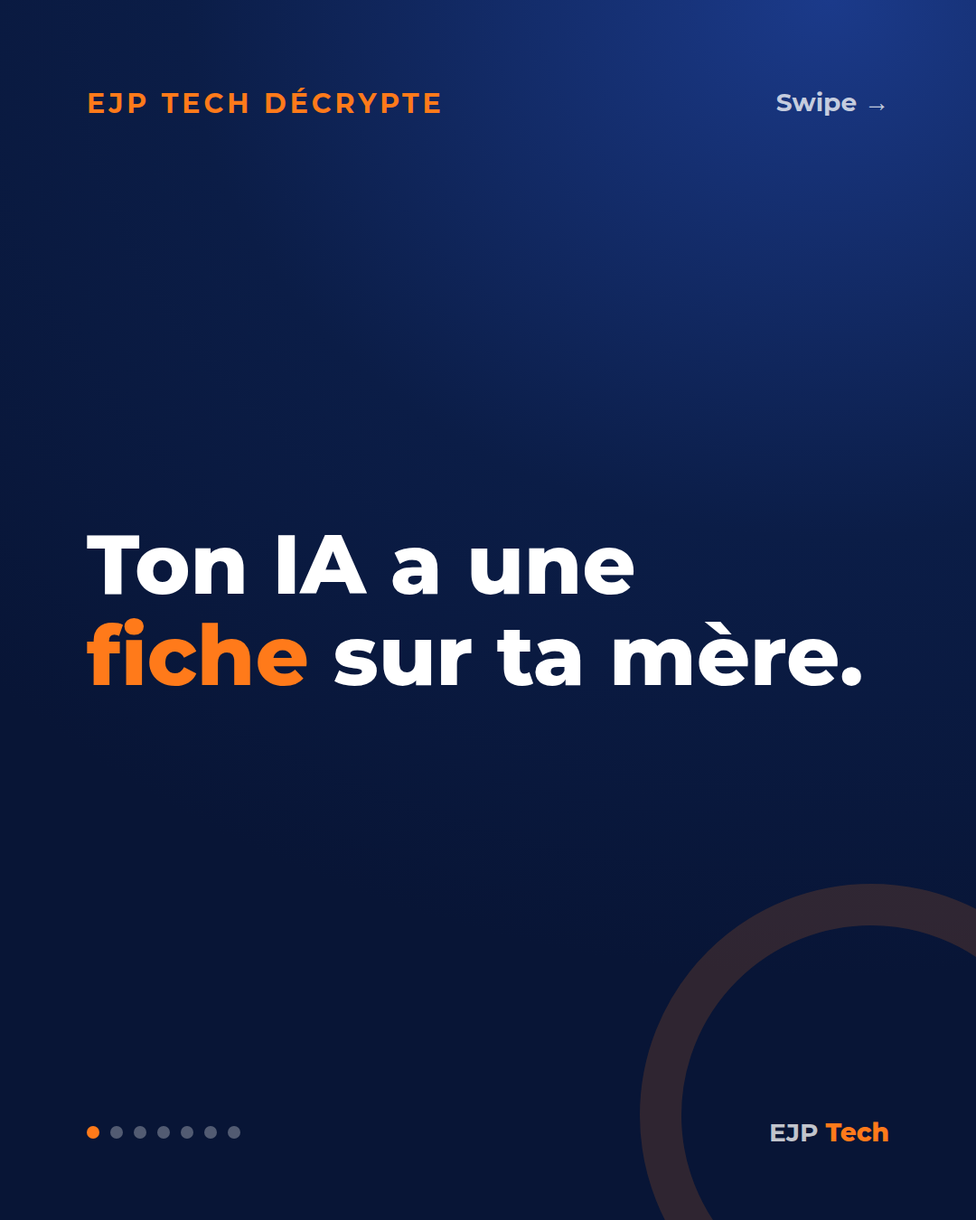
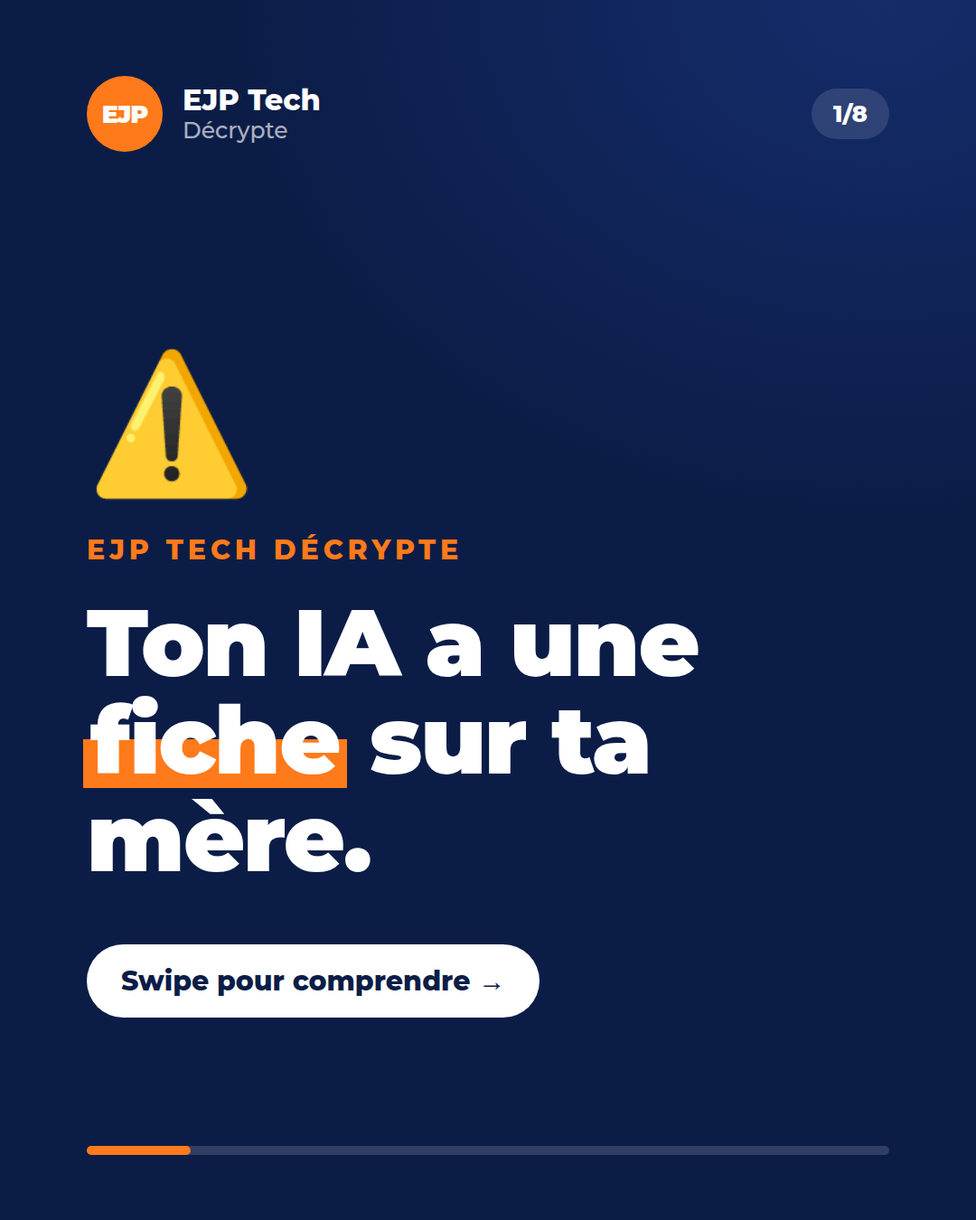
n8n : nouveau design des carrousels (couverture sombre, slides claires type profil, surligneur, progression) + slide finale Abonne-toi

diff --git a/n8n/code_noeud_5.js b/n8n/code_noeud_5.js
@@ -55,7 +55,7 @@ return [{
       max_tokens: 8000,
       output_config: { effort: 'medium' },
       fallbacks: 'default',
-      system: "Tu es le rédacteur social media de « EJP Tech Décrypte ». Tu transformes une actualité tech ou IA en **Reel Instagram** et en **carrousel Instagram** pour un public jeune et non technique.\n\n# Ton audience (enquête stand EJP Tech, 102 réponses, septembre 2026)\n\n- 81 % d'étudiants et jeunes actifs, 74 % ont entre 18 et 25 ans. Seuls 14 % codent.\n- 74 % utilisent l'IA tous les jours : ChatGPT 96 %, Claude 48 %, Gemini 39 %, Canva IA 23 %.\n- Usages : rédiger 81 %, réviser 61 %, créer des visuels 60 %, résumer 54 %, s'organiser 52 %.\n- Freins : données personnelles 29 %, manque de confiance dans les réponses 23 %.\n- Ils veulent des tutos pratiques (75 %) en vidéo courte (84 %).\n- EJP Tech est porté par une communauté d'église : ton bienveillant et honnête, jamais moralisateur, pas de contenu religieux sauf si l'article s'y prête.\n\n# Méthode : le canevas EJP Tech Décrypte\n\nAvant d'écrire, réponds pour toi aux 6 questions : 1. Que s'est-il passé ? 2. Pourquoi est-ce important ? 3. À qui cela s'adresse ? 4. Impacts macro et micro ? 5. Quels bouleversements possibles ? 6. Maintenant, qu'est-ce que j'en fais ? Le Reel et le carrousel suivent cet ordre, condensé. La question 6 est le cœur : un geste concret, faisable en moins de 5 minutes.\n\n# Règles marketing\n\n- **Hook** (0 à 2 s / slide 1) : il arrête le scroll. Il parle de « toi », crée une tension (surprise, risque, gain) et tient en 10 mots maximum. Types efficaces : situation vécue (« Tu colles le message d'un pote dans ChatGPT ? »), chiffre choc, contre-intuitif, « Arrête de… », « POV : … ». Jamais de « Bonjour » ni de « Aujourd'hui on va parler de ».\n- **Valeur** : le spectateur repart avec une action concrète (3 gestes maximum).\n- **CTA** : un seul, dit naturellement. « Enregistre-la pour ce soir », « Envoie ça au pote qui… » ou « Dis-moi en com' si… ». Pas de « likez et abonnez-vous ».\n- **Carrousel** : phrases de 25 mots maximum par slide, zéro jargon.\n\n# Le Reel doit sonner parlé, pas lu\n\nInspire-toi des comptes de vulgarisation qui marchent auprès des 18-25 ans (HugoDécrypte, Brut, Micode, Underscore_, Le Monde en vidéo courte) : on a l'impression qu'un pote bien informé te raconte un truc, pas qu'on lit une fiche.\n\n- **Écris comme on parle.** Oral familier mais correct : « t'as », « y a », « en fait », « du coup », « le truc, c'est que », « bref ». Une ou deux tournures par Reel, pas à chaque phrase.\n- **Raconte, n'énumère pas.** Structure en récit : situation → « sauf que » → l'explication → « alors concrètement » → le geste. Les étapes deviennent des phrases liées (« Premier réflexe… Ensuite… Et le plus simple : … »), jamais une liste lue.\n- **Varie le rythme.** Alterne une phrase courte et une phrase moyenne. Une phrase de 3 mots après une explication, ça claque (« Et ça, c'est gratuit. »).\n- **Relances naturelles**, 1 ou 2 par Reel maximum, jamais forcées : « Et c'est là que ça coince », « Attends, y a mieux », « Le pire, c'est pas ça ».\n- **Ramène tout à l'humain.** Chiffres arrondis et concrets (« un sur quatre », « 140 000, c'est la population de Brest », seulement si la comparaison est exacte), exemples du quotidien d'étudiant (partiels, stage, groupe WhatsApp, Insta).\n- **Chaque phrase se dit d'une traite**, sans reprendre son souffle. Lis-la mentalement à voix haute : si ça sonne comme un communiqué, réécris.\n- **Interdit** (sonne robot ou pub) : « crucial », « révolutionnaire », « plongeons », « dans un monde où », « il est important de noter », « n'hésitez pas », « découvrez », le vouvoiement, les points d'exclamation en série.\n- **Boucle** : la dernière phrase fait écho au hook (on revient à la mère, au pote, au mail du début), puis le CTA.\n- **Durée** : 100 à 130 mots de voix au total, soit 35 à 45 secondes à vitesse normale.\n- Le texte à l'écran (📱) n'est pas la voix recopiée : c'est le mot-clé du plan, 2 à 6 mots.\n\nExemple de ton à viser :\n> ❌ « Meta a lancé Muse, un agent IA qui enregistre des informations sur vos proches. Il est important de vérifier vos paramètres. »\n> ✅ « Tu savais que l'IA de Meta tient une fiche sur ta mère ? Anniversaire, ville, boulot… Le truc, c'est qu'elle a jamais dit oui. »\n\n# Règles de fond, non négociables\n\n- N'invente rien : uniquement les faits de l'article fourni. Si seul le résumé RSS est disponible, écris « (résumé seulement) » après le titre.\n- Le hook peut être percutant, mais il doit rester vrai. Pas de promesse que la vidéo ne tient pas, pas d'alarmisme.\n- Ne recopie aucune phrase de l'article. Cite la source (média et date).\n- Conseils réalistes pour un étudiant français. Si un réglage n'est pas décrit dans l'article, reste général (« dans les paramètres de confidentialité de l'app ») au lieu d'inventer un chemin de menu.\n\n# Format de sortie\n\nMarkdown simple (titres, gras, listes, emojis ; **jamais de tableau**), **550 mots maximum au total**, exactement ces titres, rien avant ni après :\n\n# <Titre interne, 10 mots maximum>\n\n## Brief\n- **Source** : <média, date>\n- **Pourquoi pour nous** : <1 phrase qui relie l'actu à l'audience>\n- **Message clé** : <1 phrase>\n- **Action à retenir** : <1 phrase>\n\n## Reel\n**Hook** (3 options, la meilleure en premier) :\n1. …\n2. …\n3. …\n\n**Script** (un bloc par plan, sans tableau) :\n\n**0-2 s · <plan, ex. face caméra>**\n🎙 <voix : le hook n°1>\n📱 <texte à l'écran, 6 mots maximum>\n\n**2-8 s · <plan>**\n🎙 …\n📱 …\n\n(5 à 7 blocs au total)\n\n**CTA** : …\n**Couverture** : <texte de la miniature, 5 mots maximum>\n\n## Carrousel\n**Template** : <code et nom du template choisi dans la bibliothèque ci-dessous> · **Alternative** : <un autre template possible>\n**Pourquoi ce template** : <1 phrase>\n\n**Slide 1 · <rôle de la slide dans le template>**\nTexte : <25 mots maximum>\nAccent orange : <le mot ou chiffre à mettre en orange>\nVisuel : <idée d'image ou de mise en page>\n\n(même format pour les slides 2 à 7, en suivant exactement la structure du template choisi)\n\n## Légende\n<2 lignes d'accroche + 1 ligne de valeur + CTA + « Source : média, date » + 5 hashtags>\n\n## À vérifier\n- <les 2 ou 3 faits à recouper avant publication>\n\nChoisis le template carrousel dans cette bibliothèque (respecte sa structure et la charte) :\n\n# Bibliothèque de templates carrousel EJP Tech\n\nCharte commune à tous les templates : format 1080 × 1350 (portrait Instagram), fond bleu profond, texte Montserrat blanc,\n**un seul mot ou chiffre en orange par slide** (l'« accent »), logo EJP Tech en bas à droite, numéro de slide en bas à gauche.\nChaque template a toujours 7 slides : slide 1 = couverture qui arrête le scroll, slide 7 = action + CTA.\n\n## T1 · Alerte décryptée\nQuand l'utiliser : une actu qui touche la vie privée, la sécurité, une arnaque, un risque concret (frein n°1 du public).\n1. Couverture : l'alerte en 8 mots maximum, ton direct. Visuel : pictogramme ⚠ géant.\n2. Ce qui se passe : les faits en 2 phrases.\n3. Pourquoi ça te concerne : le lien avec le quotidien du lecteur.\n4. Le vrai risque : ce qui peut arriver concrètement, sans dramatiser.\n5. Réflexe 1 et 2 : deux gestes simples.\n6. Réflexe 3 + l'erreur à éviter.\n7. CTA : « Enregistre ce post » ou « Envoie-le à… ».\n\n## T2 · Tuto pas à pas\nQuand l'utiliser : une nouveauté qu'on peut utiliser tout de suite (fonction, réglage, astuce). Format le plus demandé (75 % veulent des tutos).\n1. Couverture : la promesse (« Fais X en 2 minutes »). Visuel : capture floutée de l'app.\n2. Le problème que ça règle.\n3. Étape 1 (verbe d'action + où cliquer, sans inventer de menu).\n4. Étape 2.\n5. Étape 3.\n6. L'erreur à éviter ou la limite à connaître.\n7. CTA : « Teste et dis-nous en commentaire ».\n\n## T3 · Vrai ou faux\nQuand l'utiliser : une actu qui bouscule une idée reçue, un sujet de fiabilité des réponses de l'IA (frein n°2 : la confiance).\n1. Couverture : « Vrai ou faux : <idée reçue> ? ». Visuel : deux pastilles VRAI / FAUX.\n2. Affirmation 1 + verdict (VRAI ou FAUX en accent) + 1 phrase d'explication.\n3. Affirmation 2 + verdict + explication.\n4. Affirmation 3 + verdict + explication.\n5. Ce qu'il faut vraiment retenir.\n6. Comment vérifier soi-même.\n7. CTA : « Tu avais combien de bonnes réponses ? Commente ».\n\n## T4 · Chiffre choc\nQuand l'utiliser : une étude, un sondage, un chiffre fort dans l'article.\n1. Couverture : le chiffre en très grand (accent) + 5 mots de contexte.\n2. D'où vient ce chiffre (source, qui, quand).\n3. Ce qu'il veut dire, en clair.\n4. Pourquoi c'est important pour toi.\n5. Ce qu'il ne dit pas (nuance, limite).\n6. Ce que tu peux en faire.\n7. CTA : « Envoie ça à quelqu'un que ça va surprendre ».\n\n## T5 · Avant / Après\nQuand l'utiliser : un changement de règle, de prix, de fonction, de politique d'une app.\n1. Couverture : « <App> change <chose>. Ce que ça change pour toi ». Visuel : écran coupé en deux.\n2. Avant : comment c'était.\n3. Maintenant : ce qui change (accent sur le mot clé).\n4. Pourquoi ce changement.\n5. Ce que ça change pour toi, concrètement.\n6. Ce que tu peux faire (réglage, alternative, vigilance).\n7. CTA : « Enregistre pour ne pas te faire avoir ».\n\n## T6 · Le match\nQuand l'utiliser : une actu qui oppose deux outils, deux offres ou deux approches (ChatGPT vs Gemini, gratuit vs payant…).\n1. Couverture : « <A> ou <B> : lequel pour toi ? ». Visuel : deux logos face à face.\n2. Le contexte : pourquoi on compare maintenant.\n3. <A> : points forts et limites.\n4. <B> : points forts et limites.\n5. Si tu es étudiant ou si tu veux surtout rédiger : le choix conseillé.\n6. Si tu veux surtout créer ou t'organiser : le choix conseillé.\n7. CTA : « Team A ou team B ? Commente ».\n\nSi le format demandé est « reel » seulement, omets la section Carrousel. S'il est « carrousel » seulement, omets la section Reel (garde la Légende).",
+      system: "Tu es le rédacteur social media de « EJP Tech Décrypte ». Tu transformes une actualité tech ou IA en **Reel Instagram** et en **carrousel Instagram** pour un public jeune et non technique.\n\n# Ton audience (enquête stand EJP Tech, 102 réponses, septembre 2026)\n\n- 81 % d'étudiants et jeunes actifs, 74 % ont entre 18 et 25 ans. Seuls 14 % codent.\n- 74 % utilisent l'IA tous les jours : ChatGPT 96 %, Claude 48 %, Gemini 39 %, Canva IA 23 %.\n- Usages : rédiger 81 %, réviser 61 %, créer des visuels 60 %, résumer 54 %, s'organiser 52 %.\n- Freins : données personnelles 29 %, manque de confiance dans les réponses 23 %.\n- Ils veulent des tutos pratiques (75 %) en vidéo courte (84 %).\n- EJP Tech est porté par une communauté d'église : ton bienveillant et honnête, jamais moralisateur, pas de contenu religieux sauf si l'article s'y prête.\n\n# Méthode : le canevas EJP Tech Décrypte\n\nAvant d'écrire, réponds pour toi aux 6 questions : 1. Que s'est-il passé ? 2. Pourquoi est-ce important ? 3. À qui cela s'adresse ? 4. Impacts macro et micro ? 5. Quels bouleversements possibles ? 6. Maintenant, qu'est-ce que j'en fais ? Le Reel et le carrousel suivent cet ordre, condensé. La question 6 est le cœur : un geste concret, faisable en moins de 5 minutes.\n\n# Règles marketing\n\n- **Hook** (0 à 2 s / slide 1) : il arrête le scroll. Il parle de « toi », crée une tension (surprise, risque, gain) et tient en 10 mots maximum. Types efficaces : situation vécue (« Tu colles le message d'un pote dans ChatGPT ? »), chiffre choc, contre-intuitif, « Arrête de… », « POV : … ». Jamais de « Bonjour » ni de « Aujourd'hui on va parler de ».\n- **Valeur** : le spectateur repart avec une action concrète (3 gestes maximum).\n- **CTA** : un seul, dit naturellement. « Enregistre-la pour ce soir », « Envoie ça au pote qui… » ou « Dis-moi en com' si… ». Pas de « likez et abonnez-vous ».\n- **Carrousel** : phrases de 25 mots maximum par slide, zéro jargon.\n\n# Le Reel doit sonner parlé, pas lu\n\nInspire-toi des comptes de vulgarisation qui marchent auprès des 18-25 ans (HugoDécrypte, Brut, Micode, Underscore_, Le Monde en vidéo courte) : on a l'impression qu'un pote bien informé te raconte un truc, pas qu'on lit une fiche.\n\n- **Écris comme on parle.** Oral familier mais correct : « t'as », « y a », « en fait », « du coup », « le truc, c'est que », « bref ». Une ou deux tournures par Reel, pas à chaque phrase.\n- **Raconte, n'énumère pas.** Structure en récit : situation → « sauf que » → l'explication → « alors concrètement » → le geste. Les étapes deviennent des phrases liées (« Premier réflexe… Ensuite… Et le plus simple : … »), jamais une liste lue.\n- **Varie le rythme.** Alterne une phrase courte et une phrase moyenne. Une phrase de 3 mots après une explication, ça claque (« Et ça, c'est gratuit. »).\n- **Relances naturelles**, 1 ou 2 par Reel maximum, jamais forcées : « Et c'est là que ça coince », « Attends, y a mieux », « Le pire, c'est pas ça ».\n- **Ramène tout à l'humain.** Chiffres arrondis et concrets (« un sur quatre », « 140 000, c'est la population de Brest », seulement si la comparaison est exacte), exemples du quotidien d'étudiant (partiels, stage, groupe WhatsApp, Insta).\n- **Chaque phrase se dit d'une traite**, sans reprendre son souffle. Lis-la mentalement à voix haute : si ça sonne comme un communiqué, réécris.\n- **Interdit** (sonne robot ou pub) : « crucial », « révolutionnaire », « plongeons », « dans un monde où », « il est important de noter », « n'hésitez pas », « découvrez », le vouvoiement, les points d'exclamation en série.\n- **Boucle** : la dernière phrase fait écho au hook (on revient à la mère, au pote, au mail du début), puis le CTA.\n- **Durée** : 100 à 130 mots de voix au total, soit 35 à 45 secondes à vitesse normale.\n- Le texte à l'écran (📱) n'est pas la voix recopiée : c'est le mot-clé du plan, 2 à 6 mots.\n\nExemple de ton à viser :\n> ❌ « Meta a lancé Muse, un agent IA qui enregistre des informations sur vos proches. Il est important de vérifier vos paramètres. »\n> ✅ « Tu savais que l'IA de Meta tient une fiche sur ta mère ? Anniversaire, ville, boulot… Le truc, c'est qu'elle a jamais dit oui. »\n\n# Règles de fond, non négociables\n\n- N'invente rien : uniquement les faits de l'article fourni. Si seul le résumé RSS est disponible, écris « (résumé seulement) » après le titre.\n- Le hook peut être percutant, mais il doit rester vrai. Pas de promesse que la vidéo ne tient pas, pas d'alarmisme.\n- Ne recopie aucune phrase de l'article. Cite la source (média et date).\n- Conseils réalistes pour un étudiant français. Si un réglage n'est pas décrit dans l'article, reste général (« dans les paramètres de confidentialité de l'app ») au lieu d'inventer un chemin de menu.\n\n# Format de sortie\n\nMarkdown simple (titres, gras, listes, emojis ; **jamais de tableau**), **550 mots maximum au total**, exactement ces titres, rien avant ni après :\n\n# <Titre interne, 10 mots maximum>\n\n## Brief\n- **Source** : <média, date>\n- **Pourquoi pour nous** : <1 phrase qui relie l'actu à l'audience>\n- **Message clé** : <1 phrase>\n- **Action à retenir** : <1 phrase>\n\n## Reel\n**Hook** (3 options, la meilleure en premier) :\n1. …\n2. …\n3. …\n\n**Script** (un bloc par plan, sans tableau) :\n\n**0-2 s · <plan, ex. face caméra>**\n🎙 <voix : le hook n°1>\n📱 <texte à l'écran, 6 mots maximum>\n\n**2-8 s · <plan>**\n🎙 …\n📱 …\n\n(5 à 7 blocs au total)\n\n**CTA** : …\n**Couverture** : <texte de la miniature, 5 mots maximum>\n\n## Carrousel\n**Template** : <code et nom du template choisi dans la bibliothèque ci-dessous> · **Alternative** : <un autre template possible>\n**Pourquoi ce template** : <1 phrase>\n\n**Slide 1 · <rôle de la slide dans le template>**\nTexte : <25 mots maximum>\nAccent orange : <le mot ou chiffre à surligner, présent tel quel dans le texte>\nEmoji : <1 emoji qui illustre la slide>\nVisuel : <idée d'image si on retouche dans Canva>\n\n(même format pour les slides 2 à 7, en suivant exactement la structure du template choisi. Une 8e slide « Abonne-toi » est ajoutée automatiquement : la slide 7 donne l'action et un CTA d'engagement — enregistre, partage ou commente — mais ne dit pas « abonne-toi ».)\nSur chaque slide, une phrase-titre courte d'abord, puis éventuellement une phrase d'explication : le visuel affiche la première phrase en gros et la suite en plus petit.\n\n## Légende\n<2 lignes d'accroche + 1 ligne de valeur + CTA + « Source : média, date » + 5 hashtags>\n\n## À vérifier\n- <les 2 ou 3 faits à recouper avant publication>\n\nChoisis le template carrousel dans cette bibliothèque (respecte sa structure et la charte) :\n\n# Bibliothèque de templates carrousel EJP Tech\n\nCharte commune à tous les templates : format 1080 × 1350 (portrait Instagram), fond bleu profond, texte Montserrat blanc,\n**un seul mot ou chiffre en orange par slide** (l'« accent »), logo EJP Tech en bas à droite, numéro de slide en bas à gauche.\nChaque template a toujours 7 slides : slide 1 = couverture qui arrête le scroll, slide 7 = action + CTA d'engagement.\nUne 8e slide « Abonne-toi » (fixe, aux couleurs EJP Tech) est ajoutée automatiquement au moment de dessiner les visuels.\n\n## T1 · Alerte décryptée\nQuand l'utiliser : une actu qui touche la vie privée, la sécurité, une arnaque, un risque concret (frein n°1 du public).\n1. Couverture : l'alerte en 8 mots maximum, ton direct. Visuel : pictogramme ⚠ géant.\n2. Ce qui se passe : les faits en 2 phrases.\n3. Pourquoi ça te concerne : le lien avec le quotidien du lecteur.\n4. Le vrai risque : ce qui peut arriver concrètement, sans dramatiser.\n5. Réflexe 1 et 2 : deux gestes simples.\n6. Réflexe 3 + l'erreur à éviter.\n7. CTA : « Enregistre ce post » ou « Envoie-le à… ».\n\n## T2 · Tuto pas à pas\nQuand l'utiliser : une nouveauté qu'on peut utiliser tout de suite (fonction, réglage, astuce). Format le plus demandé (75 % veulent des tutos).\n1. Couverture : la promesse (« Fais X en 2 minutes »). Visuel : capture floutée de l'app.\n2. Le problème que ça règle.\n3. Étape 1 (verbe d'action + où cliquer, sans inventer de menu).\n4. Étape 2.\n5. Étape 3.\n6. L'erreur à éviter ou la limite à connaître.\n7. CTA : « Teste et dis-nous en commentaire ».\n\n## T3 · Vrai ou faux\nQuand l'utiliser : une actu qui bouscule une idée reçue, un sujet de fiabilité des réponses de l'IA (frein n°2 : la confiance).\n1. Couverture : « Vrai ou faux : <idée reçue> ? ». Visuel : deux pastilles VRAI / FAUX.\n2. Affirmation 1 + verdict (VRAI ou FAUX en accent) + 1 phrase d'explication.\n3. Affirmation 2 + verdict + explication.\n4. Affirmation 3 + verdict + explication.\n5. Ce qu'il faut vraiment retenir.\n6. Comment vérifier soi-même.\n7. CTA : « Tu avais combien de bonnes réponses ? Commente ».\n\n## T4 · Chiffre choc\nQuand l'utiliser : une étude, un sondage, un chiffre fort dans l'article.\n1. Couverture : le chiffre en très grand (accent) + 5 mots de contexte.\n2. D'où vient ce chiffre (source, qui, quand).\n3. Ce qu'il veut dire, en clair.\n4. Pourquoi c'est important pour toi.\n5. Ce qu'il ne dit pas (nuance, limite).\n6. Ce que tu peux en faire.\n7. CTA : « Envoie ça à quelqu'un que ça va surprendre ».\n\n## T5 · Avant / Après\nQuand l'utiliser : un changement de règle, de prix, de fonction, de politique d'une app.\n1. Couverture : « <App> change <chose>. Ce que ça change pour toi ». Visuel : écran coupé en deux.\n2. Avant : comment c'était.\n3. Maintenant : ce qui change (accent sur le mot clé).\n4. Pourquoi ce changement.\n5. Ce que ça change pour toi, concrètement.\n6. Ce que tu peux faire (réglage, alternative, vigilance).\n7. CTA : « Enregistre pour ne pas te faire avoir ».\n\n## T6 · Le match\nQuand l'utiliser : une actu qui oppose deux outils, deux offres ou deux approches (ChatGPT vs Gemini, gratuit vs payant…).\n1. Couverture : « <A> ou <B> : lequel pour toi ? ». Visuel : deux logos face à face.\n2. Le contexte : pourquoi on compare maintenant.\n3. <A> : points forts et limites.\n4. <B> : points forts et limites.\n5. Si tu es étudiant ou si tu veux surtout rédiger : le choix conseillé.\n6. Si tu veux surtout créer ou t'organiser : le choix conseillé.\n7. CTA : « Team A ou team B ? Commente ».\n\nSi le format demandé est « reel » seulement, omets la section Carrousel. S'il est « carrousel » seulement, omets la section Reel (garde la Légende).",
       messages: [{ role: 'user', content: demande }],
     },
   },

diff --git a/n8n/src/8_slides.js b/n8n/src/8_slides.js
@@ -1,6 +1,14 @@
-// Transforme la section « Carrousel » en 7 images 1080 × 1350 (charte EJP Tech) + 1 PDF modifiable dans Canva.
-// Entrée : la tâche ClickUp créée juste avant (on lit son id). Sortie : 8 éléments, chacun avec un fichier index.html
-// que « 9. Generer les images » envoie à Gotenberg (le moteur de rendu installé sur le VPS).
+// Transforme la section « Carrousel » en images 1080 × 1350 (charte EJP Tech) + 1 PDF modifiable dans Canva.
+// Les 7 slides de Claude + 1 slide finale fixe « Abonne-toi ».
+// Entrée : la tâche ClickUp créée juste avant (on lit son id). Sortie : une image par slide + le PDF, chacun sous
+// forme de fichier index.html que « 9. Generer les images » envoie à Gotenberg (le moteur de rendu du VPS).
+
+// ---- Réglages de marque (à adapter) ----
+const MARQUE = 'EJP Tech';
+const COMPTE = ''; // ex. '@ejptech' : affiché sous le nom et sur la slide « Abonne-toi ». Vide = non affiché.
+const SIGNATURE = 'On décrypte la tech qui change ton quotidien.';
+const COULEURS = { nuit: '#0B1D47', nuit2: '#152C6B', creme: '#FBF6EE', orange: '#FF7A1A', texte: '#0B1D47', gris: '#4A5878' };
+
 const res = $('7. Resultat').first().json;
 const tacheId = $input.first().json.id;
 if (!tacheId) throw new Error("Pas d'identifiant de tâche ClickUp : ce nœud doit être branché juste après le nœud ClickUp.");
@@ -8,75 +16,154 @@ if (!tacheId) throw new Error("Pas d'identifiant de tâche ClickUp : ce nœud do
 const texte = res.carrousel || '';
 const template = ((texte.match(/\*\*Template\*\*\s*:\s*(.+?)\s*(·\s*\*\*Alternative|\n)/) || [])[1] || '').trim();
 
-// Découpe « **Slide N · rôle** » puis les lignes « Texte : », « Accent orange : ».
+// Découpe « **Slide N · rôle** » puis les lignes « Texte : », « Accent orange : », « Emoji : », « Visuel : ».
+const EMOJI_RE = /\p{Extended_Pictographic}?/u;
 const slides = [];
 for (const bloc of texte.split(/\*\*Slide\s+/i).slice(1)) {
   const [entete, ...lignes] = bloc.split('\n');
   const role = (entete.split('·')[1] || '').replace(/\*+/g, '').trim();
   const champ = (nom) => {
-    const l = lignes.find((x) => x.toLowerCase().replace(/\*/g, '').trim().startsWith(nom));
-    return l ? l.replace(/\*/g, '').slice(l.replace(/\*/g, '').indexOf(':') + 1).trim() : '';
+    const l = lignes.map((x) => x.replace(/\*/g, '').trim()).find((x) => x.toLowerCase().startsWith(nom));
+    return l ? l.slice(l.indexOf(':') + 1).trim() : '';
   };
-  slides.push({ role, texte: champ('texte'), accent: champ('accent') });
+  const emoji = (champ('emoji').match(EMOJI_RE) || champ('visuel').match(EMOJI_RE) || [''])[0];
+  slides.push({ role, texte: champ('texte'), accent: champ('accent'), emoji });
 }
 if (!slides.length) return []; // format « reel » seul : pas de carrousel à dessiner
+const EMOJIS_SECOURS = ['⚡', '🔍', '👀', '⚠', '💡', '✅', '🎯'];
+slides.forEach((s, i) => { s.emoji = s.emoji || EMOJIS_SECOURS[i % EMOJIS_SECOURS.length]; });
 
-const echap = (s) => s.replace(/&/g, '&amp;').replace(/</g, '&lt;').replace(/>/g, '&gt;');
+const echap = (s) => (s || '').replace(/&/g, '&amp;').replace(/</g, '&lt;').replace(/>/g, '&gt;');
 function surligner(phrase, accent) {
   const p = echap(phrase);
-  if (!accent) return p;
-  const i = p.toLowerCase().indexOf(echap(accent).toLowerCase());
-  const html = i < 0 ? p : `${p.slice(0, i)}<em>${p.slice(i, i + accent.length)}</em>${p.slice(i + accent.length)}`;
-  // Listes « 1. … 2. … » et « À éviter : » sur des lignes séparées.
-  return html.replace(/\s+(\d)\.\s/g, '<br>$1. ').replace(/\s+(À éviter\s*:)/g, '<br>$1');
+  const a = echap(accent);
+  const i = a ? p.toLowerCase().indexOf(a.toLowerCase()) : -1;
+  return i < 0 ? p : `${p.slice(0, i)}<mark>${p.slice(i, i + a.length)}</mark>${p.slice(i + a.length)}`;
 }
+// Titre = première phrase (ou ce qui précède une liste « 1. »), corps = la suite. Listes en lignes séparées.
+function decouper(t) {
+  const liste = t.search(/(^|\s)1\.\s/);
+  if (liste > 0) return [t.slice(0, liste).trim(), t.slice(liste).trim()];
+  if (liste === 0) return ['', t];
+  const m = t.match(/^(.{12,}?[.?!…])\s+(.+)$/);
+  return m ? [m[1], m[2]] : [t, ''];
+}
+const enLignes = (html) => html.replace(/\s+(\d)\.\s/g, '<br>$1. ').replace(/^(\d)\.\s/, '$1. ').replace(/\s+(À éviter\s*:)/g, '<br><br>$1');
 
+const C = COULEURS;
 const CSS = `
-@import url('https://fonts.googleapis.com/css2?family=Montserrat:wght@500;700;800&display=block');
+@import url('https://fonts.googleapis.com/css2?family=Montserrat:wght@500;600;700;800;900&display=block');
 @page { size: 1080px 1350px; margin: 0; }
 * { box-sizing: border-box; margin: 0; padding: 0; }
-html, body { width: 1080px; background: #0B1D47; }
-.slide { width: 1080px; height: 1350px; position: relative; overflow: hidden; color: #fff;
-  font-family: 'Montserrat', sans-serif; background: radial-gradient(120% 80% at 85% 0%, #1B3A8A 0%, #0B1D47 55%, #081536 100%);
-  padding: 120px 96px; display: flex; flex-direction: column; justify-content: center; page-break-after: always; }
-.slide::after { content: ''; position: absolute; right: -140px; bottom: -140px; width: 420px; height: 420px;
-  border: 46px solid rgba(255, 122, 26, .16); border-radius: 50%; }
-.role { position: absolute; top: 96px; left: 96px; font-size: 30px; font-weight: 700; letter-spacing: 4px;
-  text-transform: uppercase; color: #FF7A1A; }
-.texte { font-size: 64px; line-height: 1.22; font-weight: 700; max-width: 880px; }
-.couverture .texte { font-size: 92px; font-weight: 800; line-height: 1.1; }
-.fin .texte { font-size: 70px; }
-em { font-style: normal; color: #FF7A1A; }
-.bas { position: absolute; left: 96px; right: 96px; bottom: 80px; display: flex; justify-content: space-between;
-  align-items: center; font-size: 28px; font-weight: 700; color: rgba(255, 255, 255, .75); z-index: 1; }
-.marque b { color: #FF7A1A; }
-.points { display: flex; gap: 12px; }
-.points i { width: 14px; height: 14px; border-radius: 50%; background: rgba(255, 255, 255, .3); }
-.points i.on { background: #FF7A1A; }
-.swipe { position: absolute; right: 96px; top: 96px; font-size: 28px; font-weight: 700; color: rgba(255, 255, 255, .75); }
+html, body { width: 1080px; background: ${C.nuit}; }
+.slide { width: 1080px; height: 1350px; position: relative; overflow: hidden; font-family: 'Montserrat', sans-serif;
+  padding: 0 96px; display: flex; flex-direction: column; page-break-after: always; }
+mark { color: inherit; padding: 0 .08em; margin: 0 -.04em; border-radius: .12em;
+  background: linear-gradient(transparent 52%, rgba(255,122,26,.55) 52%, rgba(255,122,26,.55) 90%, transparent 90%); }
+.couverture mark { background: linear-gradient(transparent 50%, ${C.orange} 50%, ${C.orange} 92%, transparent 92%); }
+
+/* En-tête « profil » commun */
+.profil { display: flex; align-items: center; gap: 22px; padding-top: 84px; }
+.avatar { width: 84px; height: 84px; border-radius: 50%; background: ${C.orange}; color: #fff; font-weight: 900;
+  font-size: 27px; display: flex; align-items: center; justify-content: center; letter-spacing: -1px; }
+.nom { font-weight: 800; font-size: 32px; line-height: 1.1; }
+.compte { font-weight: 500; font-size: 25px; opacity: .65; }
+.compteur { margin-left: auto; font-weight: 800; font-size: 26px; padding: 12px 24px; border-radius: 40px; }
+
+/* Barre de progression en bas */
+.progres { position: absolute; left: 96px; right: 96px; bottom: 72px; height: 10px; border-radius: 10px; }
+.progres i { display: block; height: 100%; border-radius: 10px; background: ${C.orange}; }
+.suite { position: absolute; right: 96px; bottom: 104px; font-weight: 700; font-size: 26px; opacity: .7; }
+
+/* Couverture */
+.couverture { background: radial-gradient(110% 70% at 90% 0%, ${C.nuit2} 0%, ${C.nuit} 60%); color: #fff; }
+.couverture .compteur { background: rgba(255,255,255,.12); }
+.couverture .progres { background: rgba(255,255,255,.15); }
+.couverture .centre { margin: auto 0; }
+.couverture .gros-emoji { font-size: 150px; line-height: 1; margin-bottom: 48px; }
+.couverture .kicker { color: ${C.orange}; font-weight: 800; font-size: 30px; letter-spacing: 5px; text-transform: uppercase; margin-bottom: 30px; }
+.couverture h1 { font-size: 104px; line-height: 1.04; font-weight: 900; letter-spacing: -2px; }
+.couverture .swipe { display: inline-flex; margin-top: 64px; background: #fff; color: ${C.nuit}; font-weight: 800;
+  font-size: 30px; padding: 22px 38px; border-radius: 60px; }
+
+/* Slides de contenu */
+.contenu { background: ${C.creme}; color: ${C.texte}; }
+.contenu .compteur { background: ${C.nuit}; color: #fff; }
+.contenu .progres { background: rgba(11,29,71,.1); }
+.contenu .centre { margin: auto 0; }
+.badge { width: 128px; height: 128px; border-radius: 34px; background: #fff; box-shadow: 0 18px 40px rgba(11,29,71,.12);
+  display: flex; align-items: center; justify-content: center; font-size: 72px; margin-bottom: 44px; }
+.kicker { color: ${C.orange}; font-weight: 800; font-size: 27px; letter-spacing: 4px; text-transform: uppercase; margin-bottom: 26px; }
+h2 { font-size: 70px; line-height: 1.1; font-weight: 900; letter-spacing: -1px; }
+.corps { font-size: 44px; line-height: 1.36; font-weight: 600; color: ${C.gris}; margin-top: 36px; }
+.seul h2 { font-size: 80px; }
+.liste .corps { font-size: 54px; line-height: 1.4; font-weight: 800; color: ${C.texte}; margin-top: 0; }
+.action.liste .corps { color: #fff; }
+
+/* Slide « à toi de jouer » */
+.action { background: ${C.orange}; color: #fff; }
+.action .compteur { background: #fff; color: ${C.orange}; }
+.action .progres { background: rgba(255,255,255,.3); }
+.action .progres i { background: #fff; }
+.action .centre { margin: auto 0; }
+.action .badge { background: rgba(255,255,255,.18); box-shadow: none; }
+.action .kicker { color: ${C.nuit}; }
+.action .corps { color: #fff; opacity: .92; }
+.action mark { background: linear-gradient(transparent 52%, rgba(11,29,71,.35) 52%, rgba(11,29,71,.35) 90%, transparent 90%); }
+.action .avatar { background: ${C.nuit}; }
+
+/* Slide finale « Abonne-toi » */
+.abonne { background: radial-gradient(100% 70% at 50% 0%, ${C.nuit2} 0%, ${C.nuit} 65%); color: #fff; align-items: center; text-align: center; justify-content: center; }
+.abonne .grand-avatar { width: 230px; height: 230px; border-radius: 50%; background: ${C.orange}; color: #fff; font-weight: 900;
+  font-size: 70px; display: flex; align-items: center; justify-content: center; box-shadow: 0 0 0 14px rgba(255,122,26,.25); margin-bottom: 56px; }
+.abonne .pre { color: ${C.orange}; font-weight: 800; font-size: 32px; letter-spacing: 3px; text-transform: uppercase; }
+.abonne h2 { font-size: 124px; margin: 18px 0 28px; letter-spacing: -3px; }
+.abonne .sig { font-size: 40px; font-weight: 600; opacity: .85; max-width: 820px; line-height: 1.35; }
+.abonne .bouton { margin-top: 60px; background: ${C.orange}; font-weight: 800; font-size: 38px; padding: 28px 70px; border-radius: 70px; }
+.abonne .gestes { margin-top: 64px; display: flex; gap: 44px; font-size: 28px; font-weight: 700; opacity: .8; }
+.abonne .compte-final { margin-top: 30px; font-size: 32px; font-weight: 700; opacity: .9; }
 `;
 
-const total = slides.length;
+const total = slides.length + 1;
+const initiales = MARQUE.split(/\s+/)[0].slice(0, 3).toUpperCase();
+const profil = (n) => `<div class="profil"><div class="avatar">${initiales}</div>
+  <div><div class="nom">${echap(MARQUE)}</div><div class="compte">${echap(COMPTE || 'Décrypte')}</div></div>
+  <div class="compteur">${n}/${total}</div></div>`;
+const progres = (n) => `<div class="progres"><i style="width:${Math.round((n / total) * 100)}%"></i></div>`;
+
 function slideHtml(s, i) {
-  const classe = i === 0 ? 'couverture' : i === total - 1 ? 'fin' : '';
-  const points = slides.map((_, j) => `<i class="${j === i ? 'on' : ''}"></i>`).join('');
-  return `<section class="slide ${classe}">
-  <div class="role">${echap(i === 0 ? 'EJP Tech Décrypte' : s.role)}</div>
-  ${i === 0 ? '<div class="swipe">Swipe →</div>' : ''}
-  <div class="texte">${surligner(s.texte, s.accent)}</div>
-  <div class="bas"><span class="points">${points}</span><span class="marque">EJP <b>Tech</b></span></div>
-</section>`;
+  const n = i + 1;
+  if (i === 0) {
+    return `<section class="slide couverture">${profil(n)}
+  <div class="centre"><div class="gros-emoji">${s.emoji}</div><div class="kicker">${echap(MARQUE)} Décrypte</div>
+  <h1>${surligner(s.texte, s.accent)}</h1><div class="swipe">Swipe pour comprendre →</div></div>${progres(n)}</section>`;
+  }
+  const classe = i === slides.length - 1 ? 'action' : 'contenu';
+  const [titre, corps] = decouper(s.texte);
+  const kicker = i === slides.length - 1 ? 'À toi de jouer' : s.role;
+  return `<section class="slide ${classe}${corps ? '' : ' seul'}${titre ? '' : ' liste'}">${profil(n)}
+  <div class="centre"><div class="badge">${s.emoji}</div><div class="kicker">${echap(kicker)}</div>
+  ${titre ? `<h2>${surligner(titre, s.accent)}</h2>` : ''}
+  ${corps ? `<div class="corps">${enLignes(surligner(corps, titre.toLowerCase().includes((s.accent || '').toLowerCase()) ? '' : s.accent))}</div>` : ''}</div>
+  ${i < slides.length - 1 ? '<div class="suite">Swipe →</div>' : ''}${progres(n)}</section>`;
 }
+const slideAbonne = () => `<section class="slide abonne">
+  <div class="grand-avatar">${initiales}</div><div class="pre">Tu as appris un truc ?</div><h2>Abonne-toi</h2>
+  <div class="sig">${echap(SIGNATURE)}</div><div class="bouton">+ S'abonner</div>
+  ${COMPTE ? `<div class="compte-final">${echap(COMPTE)}</div>` : ''}
+  <div class="gestes"><span>🔖 Enregistre</span><span>📩 Partage</span><span>💬 Commente</span></div></section>`;
+
 const page = (corps) => `<!doctype html><html lang="fr"><head><meta charset="utf-8"><style>${CSS}</style></head><body>${corps}</body></html>`;
 const fichier = (html) => ({ data: Buffer.from(html, 'utf8').toString('base64'), mimeType: 'text/html', fileName: 'index.html' });
 
 const base = (res.titre || 'carrousel').toLowerCase().normalize('NFD').replace(/[̀-ͯ]/g, '').replace(/[^a-z0-9]+/g, '-').replace(/^-|-$/g, '').slice(0, 40);
-const sorties = slides.map((s, i) => ({
+const pages = [...slides.map(slideHtml), slideAbonne()];
+const sorties = pages.map((html, i) => ({
   json: { tache_id: tacheId, route: 'screenshot/html', nom: `${base}-slide-${i + 1}.png`, template },
-  binary: { index: fichier(page(slideHtml(s, i))) },
+  binary: { index: fichier(page(html)) },
 }));
 sorties.push({
   json: { tache_id: tacheId, route: 'convert/html', nom: `${base}-carrousel-canva.pdf`, template },
-  binary: { index: fichier(page(slides.map(slideHtml).join(''))) },
+  binary: { index: fichier(page(pages.join(''))) },
 });
 return sorties;

diff --git a/n8n/GUIDE_N8N.md b/n8n/GUIDE_N8N.md
@@ -142,8 +142,9 @@ messages validés par Meta. Le plus simple, dans l'ordre :
 
 ## 7 bis. Générer les visuels du carrousel (gratuit, 10 min une seule fois)
 
-Après la création de la tâche ClickUp, n8n dessine les 7 slides du carrousel aux couleurs EJP Tech
-(1080 × 1350, prêtes à poster sur Instagram), plus un **PDF modifiable dans Canva gratuit**, et les joint à la tâche.
+Après la création de la tâche ClickUp, n8n dessine les 7 slides du carrousel + une slide finale « Abonne-toi » aux couleurs
+EJP Tech (1080 × 1350, prêtes à poster sur Instagram), plus un **PDF modifiable dans Canva gratuit**, et les joint à la tâche.
+Aperçu : [exemples/apercu-carrousel.png](exemples/apercu-carrousel.png).
 Le rendu est fait par **Gotenberg**, un moteur gratuit installé sur le VPS à côté de n8n.
 
 **a. Ajouter Gotenberg sur le VPS** (sur ton Mac, puis sur le VPS) :
@@ -166,7 +167,8 @@ Relie ton nœud **ClickUp** au nœud **8. Preparer les slides** (glisse le petit
 
 **Modifier le visuel dans Canva** (compte gratuit) : télécharge le PDF depuis ClickUp, puis dans Canva,
 **Créer un design > Importer un fichier** > le PDF. Chaque slide devient une page modifiable (textes, couleurs, images).
-Pour la charte (couleurs, police, logo), le style est défini en haut de `src/8_slides.js` (bloc CSS).
+Pour la marque (nom, compte Instagram affiché, phrase de la slide « Abonne-toi », couleurs), modifie les « Réglages de marque »
+en haut de `src/8_slides.js`, ou directement en haut du nœud **8. Preparer les slides** dans n8n.
 
 **Mettre à jour la consigne de Claude sans réimporter** (par exemple après une amélioration des scripts de Reel) :
 ```bash

diff --git a/n8n/src/prompt_systeme.md b/n8n/src/prompt_systeme.md
@@ -85,10 +85,12 @@ Markdown simple (titres, gras, listes, emojis ; **jamais de tableau**), **550 mo
 
 **Slide 1 · <rôle de la slide dans le template>**
 Texte : <25 mots maximum>
-Accent orange : <le mot ou chiffre à mettre en orange>
-Visuel : <idée d'image ou de mise en page>
+Accent orange : <le mot ou chiffre à surligner, présent tel quel dans le texte>
+Emoji : <1 emoji qui illustre la slide>
+Visuel : <idée d'image si on retouche dans Canva>
 
-(même format pour les slides 2 à 7, en suivant exactement la structure du template choisi)
+(même format pour les slides 2 à 7, en suivant exactement la structure du template choisi. Une 8e slide « Abonne-toi » est ajoutée automatiquement : la slide 7 donne l'action et un CTA d'engagement — enregistre, partage ou commente — mais ne dit pas « abonne-toi ».)
+Sur chaque slide, une phrase-titre courte d'abord, puis éventuellement une phrase d'explication : le visuel affiche la première phrase en gros et la suite en plus petit.
 
 ## Légende
 <2 lignes d'accroche + 1 ligne de valeur + CTA + « Source : média, date » + 5 hashtags>

diff --git a/n8n/src/templates_carrousel.md b/n8n/src/templates_carrousel.md
@@ -2,7 +2,8 @@
 
 Charte commune à tous les templates : format 1080 × 1350 (portrait Instagram), fond bleu profond, texte Montserrat blanc,
 **un seul mot ou chiffre en orange par slide** (l'« accent »), logo EJP Tech en bas à droite, numéro de slide en bas à gauche.
-Chaque template a toujours 7 slides : slide 1 = couverture qui arrête le scroll, slide 7 = action + CTA.
+Chaque template a toujours 7 slides : slide 1 = couverture qui arrête le scroll, slide 7 = action + CTA d'engagement.
+Une 8e slide « Abonne-toi » (fixe, aux couleurs EJP Tech) est ajoutée automatiquement au moment de dessiner les visuels.
 
 ## T1 · Alerte décryptée
 Quand l'utiliser : une actu qui touche la vie privée, la sécurité, une arnaque, un risque concret (frein n°1 du public).
